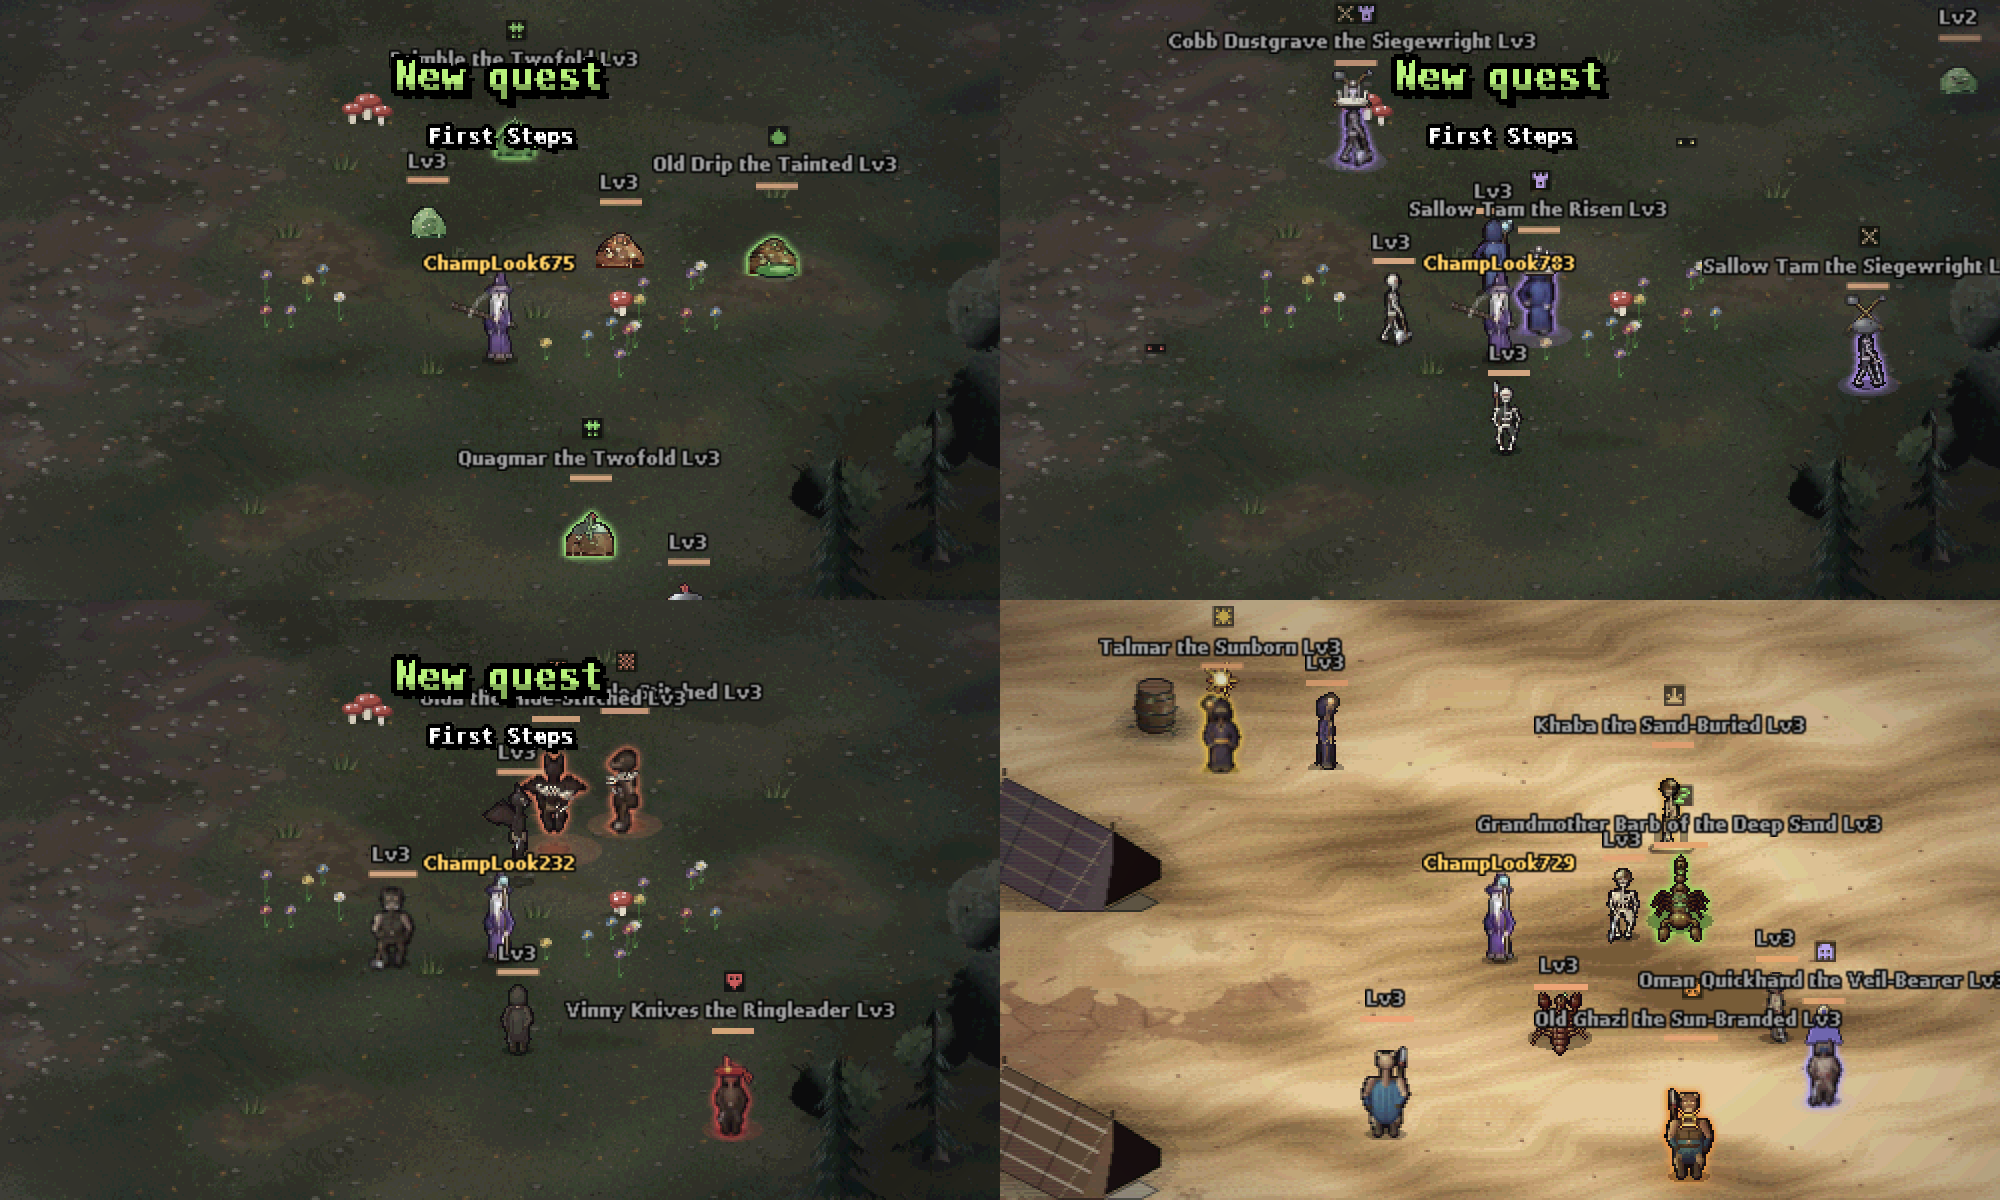
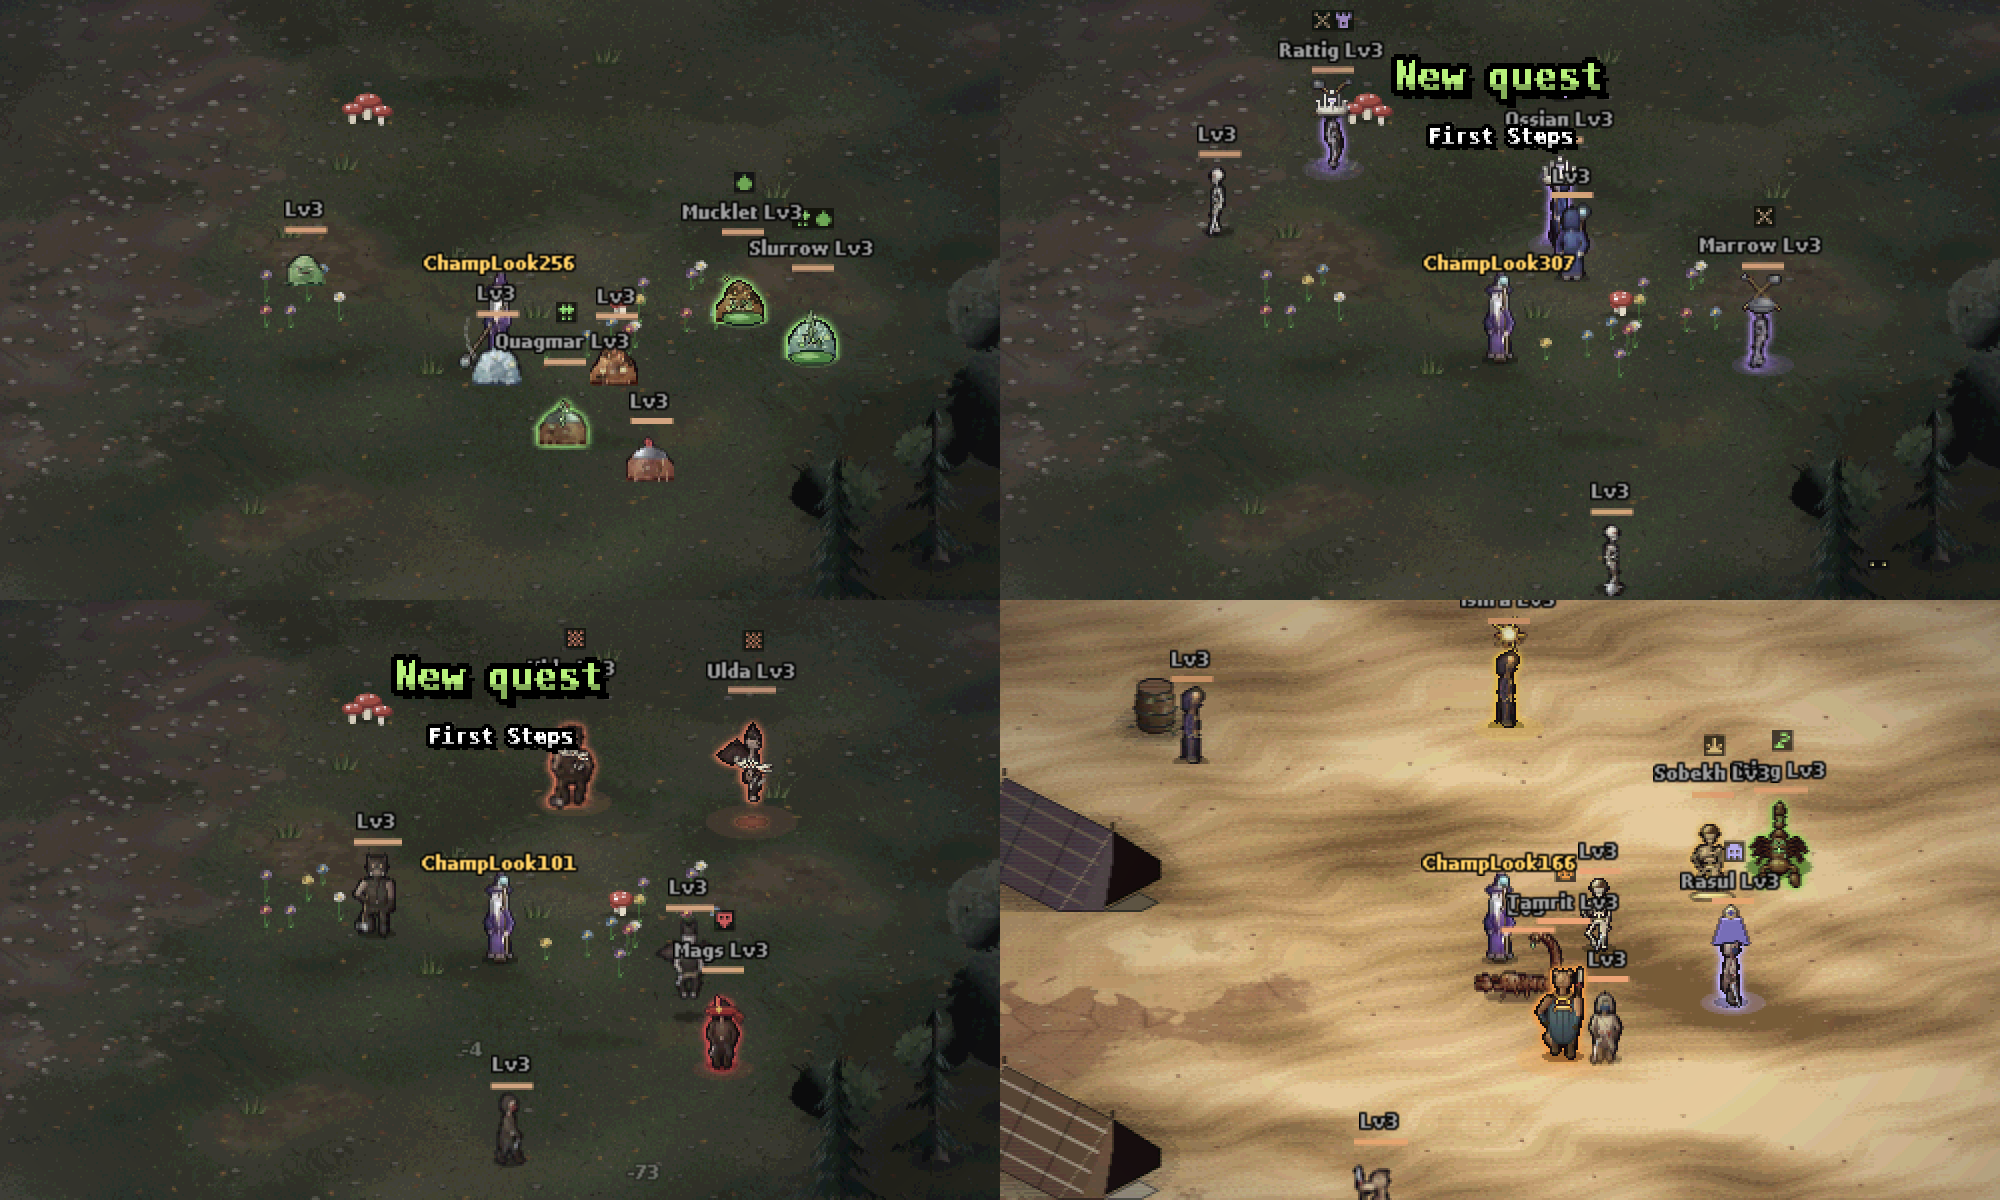
Champions: short names over their heads (8 letters at most); the epithet only under the mouse or as the target
Claude-Session: https://claude.ai/code/session_0115KPgiRj8qUM8tHM6xuDHh

diff --git a/shared/champions.ts b/shared/champions.ts
@@ -33,31 +33,31 @@ export interface FamilyDef {
 export const FAMILIES: Record<ChampionFamily, FamilyDef> = {
   // the Gloam (shared/quests.ts): one vast ooze broken into pieces that remember enough to bud and fuse
   gloam: { name: "The Gloam", tint: 0xd6ffc4, aura: 0x8dff5a, affixes: ["split", "taint"],
-    names: ["Mucklet", "Ooznar", "Slurrow", "Gloopa", "Quagmar", "Squelda", "Brimble", "Old Drip"] },
+    names: ["Mucklet", "Ooznar", "Slurrow", "Gloopa", "Quagmar", "Squelda", "Brimble", "Drip"] },
   // the Pale Marshal's dead, raised by the necromancer to build his siege works (shared/siege.ts)
   necro: { name: "The Necromancer's dead", tint: 0xdcd0ff, aura: 0xa070ff, affixes: ["siege", "risen"],
-    names: ["Morgrul", "Ossian", "Vexbone", "Grimhal", "Marrowin", "Rattigan", "Sallow Tam", "Cobb Dustgrave"] },
+    names: ["Morgrul", "Ossian", "Vexbone", "Grimhal", "Marrow", "Rattig", "Sallow", "Cobb"] },
   // the beast-folk of the Mawdeep (shared/dungeon.ts): sewn into animal hides by the Hide-Mother's rite
   beast: { name: "The beast-folk", tint: 0xffd6bc, aura: 0xff6a3a, affixes: ["stitched"],
-    names: ["Rhask", "Gorrak", "Skarn", "Nettle", "Vessa", "Ulda", "Brakk", "Old Mother Teeth"] },
+    names: ["Rhask", "Gorrak", "Skarn", "Nettle", "Vessa", "Ulda", "Brakk", "Teeth"] },
   // the Redfang outlaws (shared/bandits.ts): their Chief holds the camp together and calls up more men
   redfang: { name: "The Redfang", tint: 0xffc8c0, aura: 0xff3030, affixes: ["gang"],
-    names: ["Red Jory", "Black Dunne", "Mags", "Harl", "Vinny Knives", "Sela", "One-Ear Coll", "Brisk"] },
+    names: ["Red Jory", "Dunne", "Mags", "Harl", "Vinny", "Sela", "Coll", "Brisk"] },
   // the Veiled Circle (shared/quests.ts SUN_QUESTS): sun-priests feeding a second sun on the Thornspire
   veiled: { name: "The Veiled Circle", tint: 0xfff0b8, aura: 0xffc830, affixes: ["sunborn"],
-    names: ["Ishra", "Somal", "Kaveh", "Neriah", "Zuhal", "Talmar", "Adept Oren", "Hazarin"] },
+    names: ["Ishra", "Somal", "Kaveh", "Neriah", "Zuhal", "Talmar", "Oren", "Hazarin"] },
   // Kharsun's dead and the guardians of its tombs: the city that drank the second sun and lies under the sand
   kharsun: { name: "The dead of Kharsun", tint: 0xf4e0b0, aura: 0xe8b450, affixes: ["buried"],
-    names: ["Akhet", "Nebsun", "Tahmose", "Seret", "Khaba", "Meritsand", "Iunu", "Sobekh"] },
+    names: ["Akhet", "Nebsun", "Tahmose", "Seret", "Khaba", "Merit", "Iunu", "Sobekh"] },
   // the Dune Scorpions, driven out of the deep sand "as if something drove them" (Out of the Old Gate)
   scorpion: { name: "The Dune Scorpions", tint: 0xdcffc0, aura: 0x9be04a, affixes: ["deepvenom"],
-    names: ["Old Sting", "Sabbak", "Qarra", "Duneclaw", "Hesh", "Grandmother Barb"] },
+    names: ["Sting", "Sabbak", "Qarra", "Duneclaw", "Hesh", "Barb"] },
   // the Dustriders, paid by the Circle and carrying its Veil Tokens (Dustrider Silver)
   nomad: { name: "The Dustriders", tint: 0xe4dcff, aura: 0xb4a4ff, affixes: ["veil"],
-    names: ["Rasul", "Jaddar", "Faisa", "Zarik", "Oman Quickhand", "Taziri"] },
+    names: ["Rasul", "Jaddar", "Faisa", "Zarik", "Oman", "Taziri"] },
   // the camel-folk of the Humpback Mesas, branded with the Circle's veiled sun (Brands of the Sun)
   camel: { name: "The camel-folk", tint: 0xffdcae, aura: 0xff9830, affixes: ["brand"],
-    names: ["Humbar", "Old Ghazi", "Tamrit", "Bashar", "Hessa Woolmother", "Qadir"] },
+    names: ["Humbar", "Ghazi", "Tamrit", "Bashar", "Hessa", "Qadir"] },
 };
 
 /** Which family each kind belongs to. Kinds missing here are never champions (elites, bosses, summons, bloblings...). */
@@ -155,10 +155,16 @@ export function pickAffixes(kind: MobKind, rnd: () => number = Math.random): Aff
   return [pool[Math.floor(rnd() * pool.length) % pool.length]];
 }
 
-/** "Morgrul the Risen": a name from the family's list and the first affix's epithet. */
-export function championName(kind: MobKind, affixes: AffixKey[], rnd: () => number = Math.random): string {
+/** The short name shown over a champion ("Morgrul"): at most CHAMP_NAME_MAX letters, so it never covers the screen. */
+export const CHAMP_NAME_MAX = 8;
+export function championName(kind: MobKind, _affixes: AffixKey[], rnd: () => number = Math.random): string {
   const names = FAMILIES[FAMILY_OF[kind]!].names;
-  return `${names[Math.floor(rnd() * names.length) % names.length]} ${AFFIXES[affixes[0]].epithet}`;
+  return names[Math.floor(rnd() * names.length) % names.length];
+}
+/** Its full name, shown only under the mouse or as the target: "Morgrul the Risen". */
+export function championFullName(name: string, champion: number): string {
+  const first = unpackAffixes(champion)[0];
+  return first ? `${name} ${AFFIXES[first].epithet}` : name;
 }
 
 export const championHp = (maxHp: number) => Math.round(maxHp * CHAMPION.hpMult);

diff --git a/client/src/TownScene.ts b/client/src/TownScene.ts
@@ -100,6 +100,7 @@ import { ResourceBars } from "./resourceBars";
 import { OverloadGauge } from "./overloadGauge";
 import { bindElemFx } from "./elemFx";
 import { ChampionFx } from "./championFx";
+import { championFullName } from "../../shared/champions";
 import { bindBeastFx } from "./beastFx";
 import { bindRaiderFx, raiderTrail } from "./raiderFx";
 import { DungeonView } from "./dungeon";
@@ -3049,7 +3050,8 @@ export class TownScene extends Phaser.Scene {
         const kindName = named ? (MOBS[p.kind as MobKind]?.name ?? "") : "";
         const lv = `Lv${p.level ?? 1}`;
         const owner = p.owner ? (this.room.state as any).players?.get(p.owner) : undefined;
-        const txt = owner ? `${owner.name}'s ${MOBS[p.kind as MobKind]?.name ?? "Golem"}${isSummonKind(p.kind) || p.kind === "bride" || p.kind === "wisp" ? "" : " thrall"}` : p.title ? `${p.title} ${lv}` : BOSS[p.kind as keyof typeof BOSS] ? `${kindName || "Boss"} ${lv}` : ELITE[p.kind as keyof typeof ELITE] ? `Elite ${kindName ? kindName + " " : ""}${lv}` : kindName ? `${kindName} ${lv}` : lv;
+        const txt = owner ? `${owner.name}'s ${MOBS[p.kind as MobKind]?.name ?? "Golem"}${isSummonKind(p.kind) || p.kind === "bride" || p.kind === "wisp" ? "" : " thrall"}` : p.champion ? `${named ? championFullName(p.title, p.champion) : p.title} ${lv}` // a champion: its short name, the epithet only under the mouse
+          : p.title ? `${p.title} ${lv}` : BOSS[p.kind as keyof typeof BOSS] ? `${kindName || "Boss"} ${lv}` : ELITE[p.kind as keyof typeof ELITE] ? `Elite ${kindName ? kindName + " " : ""}${lv}` : kindName ? `${kindName} ${lv}` : lv;
         // A monster right next to my hero: my own name steps aside so the two labels never overlap
         const meS = this.entities.get(this.me)?.sprite;
         if (meS && !p.dead && Math.abs(e.sprite.x - meS.x) < 1.5 * TILE && Math.abs(e.sprite.y - meS.y) < 1.5 * TILE) this.mobByMeAt = now;

diff --git a/tests/champions.test.ts b/tests/champions.test.ts
@@ -2,7 +2,7 @@
 import { test } from "node:test";
 import assert from "node:assert/strict";
 import { BOSS, ELITE, MOBS, TILE, type MobKind } from "../shared/constants";
-import { AFFIX_FX, AFFIX_KEYS, AFFIXES, CHAMPION, canBeChampion, championName, FAMILIES, FAMILY_OF, hasAffix, packAffixes, pickAffixes, rollChampion, unpackAffixes, type AffixKey } from "../shared/champions";
+import { AFFIX_FX, AFFIX_KEYS, AFFIXES, CHAMPION, canBeChampion, championName, championFullName, CHAMP_NAME_MAX, FAMILIES, FAMILY_OF, hasAffix, packAffixes, pickAffixes, rollChampion, unpackAffixes, type AffixKey } from "../shared/champions";
 import { SPAWN_ZONES } from "../shared/spawns";
 import { isRuneId } from "../shared/runes";
 import { blocked } from "../shared/movement";
@@ -62,7 +62,9 @@ test("affixes: each belongs to its family, packs into bits and back, and names a
   assert.deepEqual(unpackAffixes(packAffixes(a)), a);
   assert.ok(hasAffix(packAffixes(a), "risen") && !hasAffix(packAffixes(a), "split"));
   assert.equal(unpackAffixes(0).length, 0);
-  assert.match(championName("skeleton", ["risen"], () => 0), /^Morgrul the Risen$/);
+  assert.equal(championName("skeleton", ["risen"], () => 0), "Morgrul");
+  assert.equal(championFullName("Morgrul", packAffixes(["risen"])), "Morgrul the Risen");
+  for (const f of Object.values(FAMILIES)) for (const n of f.names) assert.ok(n.length <= CHAMP_NAME_MAX, `"${n}" is too long for the label`);
 });
 
 // ---- On the server ----

diff --git a/tools/art/preview/champions-sheet.ts b/tools/art/preview/champions-sheet.ts
@@ -90,7 +90,7 @@ const rgb = (c: number) => [(c >> 16) & 255, (c >> 8) & 255, c & 255];
     }
     let seed = n * 7 + 3; const rnd = () => (seed = (seed * 9301 + 49297) % 233280) / 233280;
     c.textAlign = "center"; c.font = `${5.5 * Z}px Pixel, sans-serif`;
-    c.fillStyle = "#ffd166"; c.fillText(championName(kind, affixes, rnd), (x0 + CW / 2) * Z, (feetY + 11) * Z);
+    c.fillStyle = "#ffd166"; c.fillText(`${championName(kind, affixes, rnd)} Lv30`, (x0 + CW / 2) * Z, (feetY + 11) * Z);
     c.fillStyle = "#c8c0a8"; c.font = `${4.5 * Z}px Pixel, sans-serif`;
     c.fillText(`${kind} · ${affixes.map((a) => AFFIXES[a].name).join(" + ")}`, (x0 + CW / 2) * Z, (feetY + 19) * Z);
   }
